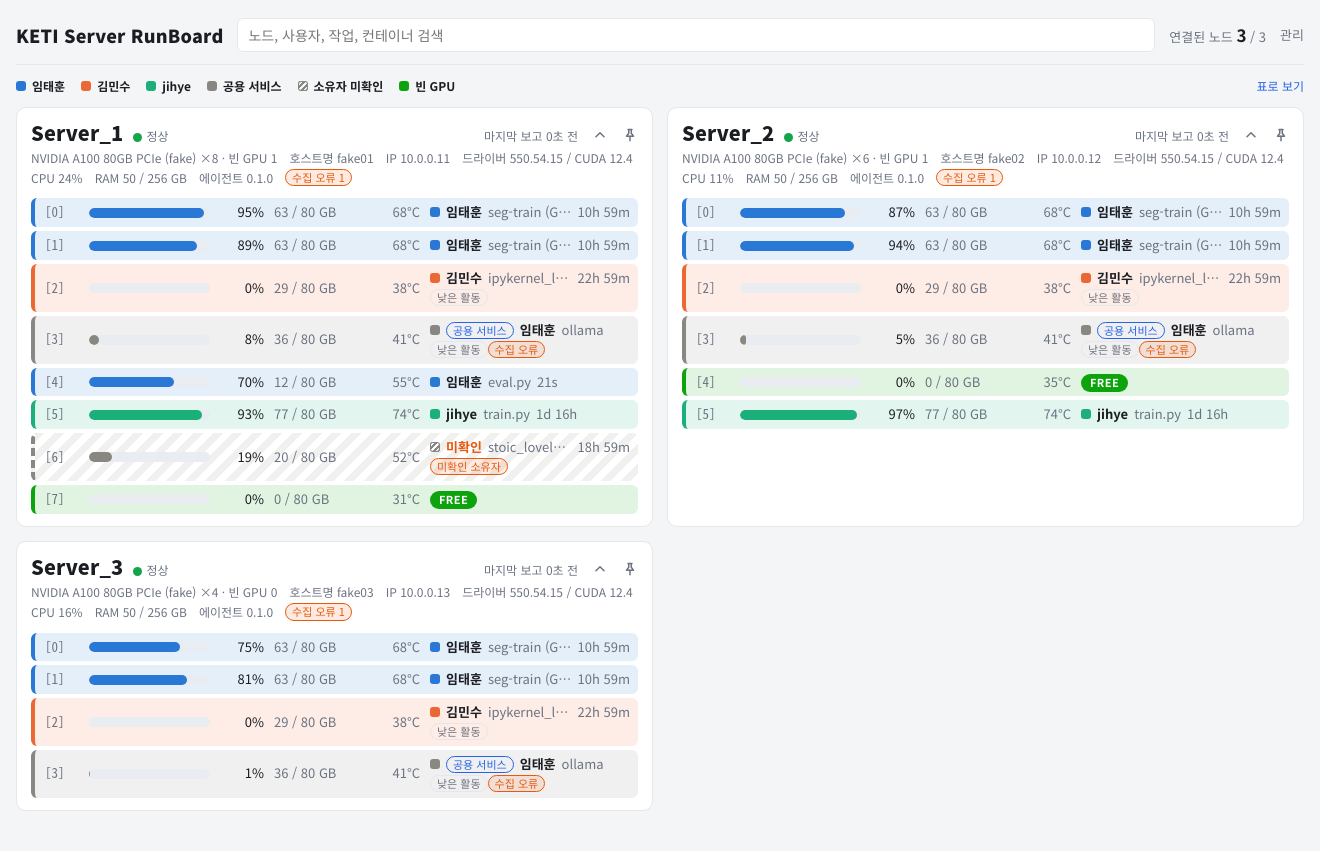
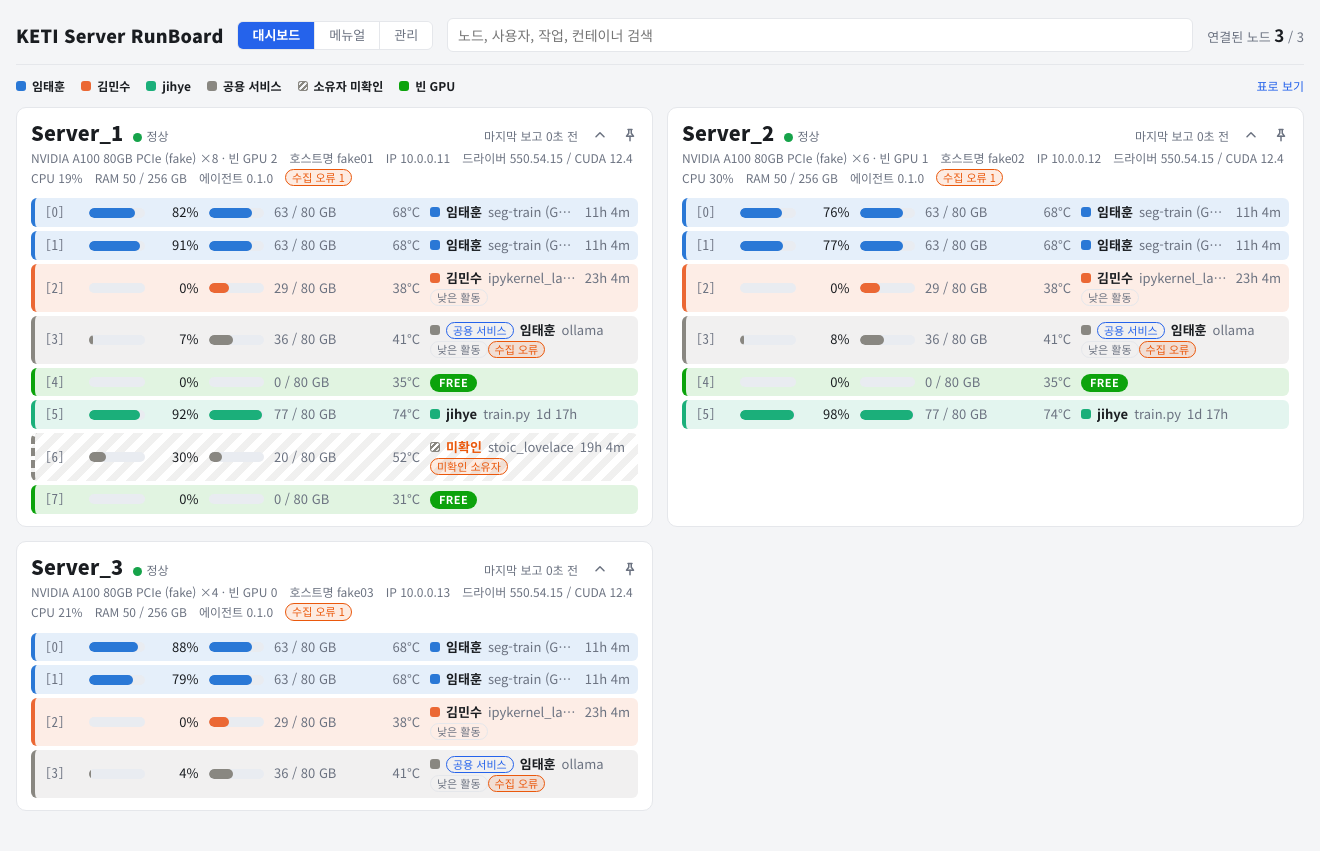
docs: 헤더 메뉴와 메뉴얼 화면을 문서·그림에 반영
docs/img 그림을 새 헤더와 메모리 막대가 보이게 다시 찍고 대시보드 안내 그림의 번호를 옮겼다.

diff --git a/docs/annotations/dashboard-guide.html b/docs/annotations/dashboard-guide.html
@@ -1,25 +1,25 @@
 <!doctype html>
 <!-- README 의 대시보드 안내 그림. 바탕은 ../img/dashboard.png (1320×851). 찍는 법은 README_DEV.md 10장 "스크린샷" -->
 <html><head><meta charset="utf-8"><link rel="stylesheet" href="annotate.css"></head><body><div class="wrap" style="height:851px"><img src="../img/dashboard.png">
-<div class="box" style="left:236px;top:16px;width:920px;height:38px"></div>
-<div class="b" style="left:236px;top:16px">1</div>
-<!-- 1 검색 -->
+<div class="box" style="left:233px;top:17px;width:204px;height:37px"></div>
+<div class="b" style="left:233px;top:54px">1</div>
+<!-- 1 메뉴 버튼 (대시보드·메뉴얼·관리). 번호는 제목 글자를 가리지 않게 상자 왼쪽 아래 -->
+<div class="box" style="left:444px;top:15px;width:752px;height:40px"></div>
+<div class="b" style="left:1186px;top:57px">2</div>
+<!-- 2 검색. 번호는 메뉴 상자와 노드 수 글자를 피해 상자 오른쪽 아래 -->
 <div class="box" style="left:10px;top:73px;width:455px;height:26px"></div>
-<div class="b" style="left:10px;top:73px">2</div>
-<!-- 2 범례 -->
+<div class="b" style="left:10px;top:73px">3</div>
+<!-- 3 범례 -->
 <div class="box" style="left:26px;top:118px;width:616px;height:74px"></div>
-<div class="b" style="left:26px;top:118px">3</div>
-<!-- 3 노드 카드 머리 -->
+<div class="b" style="left:26px;top:118px">4</div>
+<!-- 4 노드 카드 머리 -->
 <div class="box" style="left:30px;top:198px;width:610px;height:30px"></div>
-<div class="b" style="left:30px;top:198px">4</div>
-<!-- 4 GPU 행 -->
+<div class="b" style="left:30px;top:198px">5</div>
+<!-- 5 GPU 행 -->
 <div class="box" style="left:426px;top:338px;width:126px;height:22px"></div>
-<div class="b" style="left:426px;top:338px">5</div>
-<!-- 5 뱃지 -->
+<div class="b" style="left:426px;top:338px">6</div>
+<!-- 6 뱃지 -->
 <div class="box" style="left:1250px;top:74px;width:60px;height:24px"></div>
-<div class="b" style="left:1250px;top:100px">6</div>
-<!-- 6 표로 보기 -->
-<div class="box" style="left:1270px;top:22px;width:44px;height:26px"></div>
-<div class="b" style="left:1292px;top:56px">7</div>
-<!-- 7 관리 -->
+<div class="b" style="left:1250px;top:100px">7</div>
+<!-- 7 표로 보기 -->
 </div></body></html>

diff --git a/README_DEV.md b/README_DEV.md
@@ -971,13 +971,14 @@ GPU 이력:
 
 | 주소 | 화면 | 들어가는 길 |
 |---|---|---|
-| `/` | 대시보드: 범례, 노드 카드, GPU 행 | 헤더의 `KETI Server RunBoard` |
+| `/` | 대시보드: 범례, 노드 카드, GPU 행 | 헤더의 `KETI Server RunBoard` 나 `대시보드` 버튼 |
 | `/gpus` | 전체 GPU 표 | 대시보드 범례 줄의 `표로 보기`, 노드 상세 GPU 제목 줄의 `전체 GPU 표` |
 | `/nodes/<식별자>` | 노드 상세: 노드 정보, GPU 표, 작업 표, 이력 차트 | 카드·표·작업 상세의 노드 이름, 관리 서버(노드) 탭의 화면 이름 |
 | `/users` | 사용자 목록 | 화면 안에 링크가 없다. 주소를 직접 연다 |
 | `/users/<사용자 이름>` | 사용자 상세. `/users/_unknown` 은 소유자 미확인 작업 묶음 | GPU 행·작업 표의 소유자, 사용자 목록, 관리 사용자 탭 |
 | `/workloads/<작업 ID>` | 작업 상세와 세션 표 | GPU 행·작업 표의 작업 이름 |
-| `/admin` | 관리 | 헤더의 `관리` |
+| `/manual` | 메뉴얼: README.md 의 내용 | 헤더의 `메뉴얼` 버튼 |
+| `/admin` | 관리 | 헤더의 `관리` 버튼 |
 
 이 밖의 주소는 `페이지가 없습니다.` 를 보인다. 작업만 모아 보는 목록 화면은 없고, 작업 표는 노드 상세와 사용자 상세에 있다.
 
@@ -992,7 +993,9 @@ GPU 이력:
 
 ### 헤더와 공지 배너
 
-모든 화면 맨 위에 헤더 한 줄이 있다: 제목 `KETI Server RunBoard`(대시보드로 간다), 검색창, `연결된 노드 N / M`, `관리` 링크. N 은 정상·지연 노드 수, M 은 비활성화까지 포함한 노드 수다.
+모든 화면 맨 위에 헤더 한 줄이 있다: 제목 `KETI Server RunBoard`(대시보드로 간다), 메뉴 버튼 `대시보드`·`메뉴얼`·`관리`, 검색창, `연결된 노드 N / M`. N 은 정상·지연 노드 수, M 은 비활성화까지 포함한 노드 수다.
+
+메뉴 버튼은 지금 화면이 속한 것이 accent 색으로 찬다. `메뉴얼` 은 `/manual`, `관리` 는 `/admin` 이고, 그 밖의 모든 화면(대시보드, 전체 GPU 표, 노드·사용자·작업 상세, 없는 주소)에서는 `대시보드` 가 켜져 있다. 버튼은 검색어·정렬 같은 쿼리 매개변수를 넘기지 않는다.
 
 검색:
 
@@ -1152,6 +1155,16 @@ GPU 마다 작은 차트가 하나씩 있고 범례는 묶음 위에 한 번 있
 
 점유 시간은 연산 시간이 아니다. 작업 상세는 지금 열린 작업만 보여 준다. 세션이 모두 끝나 작업이 닫히면 그 주소는 `서버에서 데이터를 가져오지 못했습니다: 404 Not Found` 를 보인다. 닫힌 뒤에 그 주소를 새로 열면 `불러오는 중…` 과 이 오류 상자가 번갈아 보인다 (11장 '판정과 표시').
 
+### 메뉴얼
+
+`/manual` 은 레포 루트의 `README.md` 를 그대로 보여 준다. 빌드 때 Vite 가 README 본문을 문자열로 넣고(`?raw`), 화면은 markdown 변환기 `marked` 로 HTML 을 만들어 그대로 넣는다 (`web/src/pages/Manual.tsx`). 그래서 README 를 고치면 웹을 다시 빌드해야 화면에 반영된다. 서버 이미지의 웹 빌드 단계는 `README.md` 와 `docs/img/` 를 함께 복사한다 (`server/Dockerfile`).
+
+- README 의 그림 `docs/img/<파일>` 은 Vite 가 해시 이름의 자산(`/assets/`)으로 묶고, 화면이 그 주소로 바꿔 넣는다. `docs/img/` 에 없는 그림은 경로가 그대로 남아 깨진 그림으로 보인다.
+- `README_DEV.md` 처럼 레포 안의 `.md` 로 가는 링크는 GitHub 의 그 파일(`master`)로 간다. 그 밖의 링크는 그대로다.
+- README 는 레포에 든 글이라 변환한 HTML 을 걸러 내지 않고 넣는다. README 에 적은 HTML 태그도 그대로 들어간다.
+- 메뉴얼 묶음(README 본문과 `marked`)은 따로 나뉘어(`Manual-*.js`) 메뉴얼을 처음 열 때 받는다. 대시보드 첫 로드에는 들어가지 않는다.
+- 글 폭은 1000 px 까지이고 그림은 그 폭에 맞춰 줄어든다. 다른 화면처럼 다크 모드를 따른다.
+
 ### 관리
 
 탭은 `사용자`, `공용 서비스`, `서버(노드)`, `공지` 이고 주소의 `?tab=` 에 둔다. 로그인이 없어 주소를 아는 누구나 고칠 수 있다. 필드 규칙은 3장 '등록 정보' 와 '공지' 에 있다.
@@ -1194,7 +1207,7 @@ GPU 마다 작은 차트가 하나씩 있고 범례는 묶음 위에 한 번 있
 | GPU 행 작업 칸 260 px 이하 | 공용 서비스 줄의 경과를 뺀다 |
 | 이력 차트 가로축 280 px 이하 (차트 상자가 약 336 px 이하. 넓은 창에서 차트가 한 줄에 넷씩 놓이면 늘 그렇다) | 7일 차트의 날짜 글자를 하루 걸러 적는다 |
 
-헤더는 폭이 모자라면 여러 줄로 접힌다. 전체 GPU 표와 관리 화면의 표는 화면보다 넓으면 표만 옆으로 스크롤한다.
+헤더는 폭이 모자라면 여러 줄로 접힌다. 창 700 px 안팎에서는 메뉴 버튼이 제목 옆에 남고 검색창과 노드 수가 다음 줄로 내려간다. 전체 GPU 표와 관리 화면의 표는 화면보다 넓으면 표만 옆으로 스크롤한다.
 
 ### 아이콘과 홈 화면
 
@@ -1590,9 +1603,9 @@ journalctl -u runboard-agent -n 50 --no-pager
 | `common/` | `runboard-common`: 보고 스키마 (`runboard_common/schemas.py`) |
 | `agent/` | `runboard-agent`: CLI(`main.py`), 설정(`config.py`), 보고 주기(`cadence.py`), 수집기(`collector/nvml.py`, `collector/fake.py`), `/proc`·Docker 보강(`enrich.py`), 비밀값 가리기(`masking.py`), 전송(`reporter.py`), Docker 소켓 중계(`dockerproxy.py`). `systemd/` 유닛과 `Dockerfile` |
 | `server/` | `runboard-server`: 진입점(`main.py`), `nodes` 명령(`cli.py`), 설정(`config.py`), API(`api/ingest.py`·`query.py`·`admin.py`·`auth.py`), 판정과 추적(`core/engine.py`·`owner.py`·`sessions.py`·`workloads.py`·`detector.py`·`history.py`·`state.py`), DB(`db/models.py`·`repo.py`), 등록 정보(`registry.py`), 공지(`notices.py`), 응답 모델(`views.py`). 웹을 포함하는 `Dockerfile` |
-| `web/` | React 18 + Vite + TypeScript + TanStack Query. 화면(`src/pages`), 부품(`src/components`), 아이콘·manifest(`public`) |
+| `web/` | React 18 + Vite + TypeScript + TanStack Query. 화면(`src/pages`), 부품(`src/components`), 아이콘·manifest(`public`). 메뉴얼 화면은 `marked` 로 README.md 를 그린다 |
 | `deploy/` | `docker-compose.yml`, `runboard.example.yaml`, `install-agent.sh`, `start-agent.sh` |
-| `README.md`, `README_DEV.md` | 개요·사용 방법·주의사항, 그리고 이 문서 |
+| `README.md`, `README_DEV.md` | 개요·사용 방법·주의사항(웹의 메뉴얼 화면이 그대로 보여 준다), 그리고 이 문서 |
 | `docs/` | 그림(`img/`)과 README 안내 그림의 번호 표시 원본(`annotations/`) |
 | `pyproject.toml` | 루트는 패키지가 아니다. ruff·pytest 설정만 둔다 |
 | `requirements-dev.txt` | 세 패키지를 개발용으로 설치한다 |
@@ -1673,6 +1686,8 @@ npm run typecheck   # tsc -b
 
 `npm run dev` 는 로컬 서버가 8000 포트에 떠 있어야 데이터가 나온다. 빌드 결과는 서버가 `server.web_dist`(또는 `RUNBOARD_WEB_DIST`)에서 내보낸다 (6장 '웹 파일과 그 밖의 경로').
 
+메뉴얼 화면은 레포 루트의 `README.md` 와 `docs/img/*` 를 빌드 입력으로 읽는다 (7장 '메뉴얼'). `web/` 만 따로 떼어 빌드하면 그 둘이 없어 실패하므로 레포 전체를 둔 채 빌드한다. dev 서버는 `server.fs.allow` 로 레포 루트까지 열어 둔다 (`vite.config.ts`).
+
 ### 아이콘 파일
 
 `web/public/` 의 파일은 Vite 가 빌드 때 `dist` 루트로 그대로 복사한다.
@@ -1689,7 +1704,7 @@ npm run typecheck   # tsc -b
 
 ### 스크린샷
 
-`docs/img/` 의 그림은 가짜 에이전트 세 대(`fake01` 8장, `fake02` 6장, `fake03` 4장)와 예시 등록 정보로 띄운 화면이다. 작업 경과가 몇 시간·며칠로 보이도록 가짜 수집기의 기준 시각(`runboard_agent.collector.fake._EPOCH`)을 찍는 날 근처로 바꾼 에이전트를 썼고, 노드 상세의 이력 차트는 `fake01` 의 이틀 치 원본 샘플을 DB 에 직접 넣어 채웠다. 이 보조 스크립트는 레포에 없다. 그래서 아래 명령으로 다시 찍으면 경과가 1년 넘게 나오고(2장 '가짜 수집기'), 이력 차트는 서버를 띄운 뒤 쌓인 만큼만 그려진다. 같은 크기의 대시보드 그림은 Chrome headless 로 이렇게 찍는다.
+`docs/img/` 의 그림은 가짜 에이전트 세 대(`fake01` 8장, `fake02` 6장, `fake03` 4장)와 예시 등록 정보로 띄운 화면이다. 작업 경과가 몇 시간·며칠로 보이도록 가짜 수집기의 기준 시각(`runboard_agent.collector.fake._EPOCH`)을 찍는 시각의 14시간 전으로 바꾼 에이전트를 썼고, 노드 상세의 이력 차트는 `fake01` 의 이틀 치 5분 집계 행(`gpu_samples_5m`)을 시나리오에 맞춘 파형으로 DB 에 직접 넣어 채웠다. 이 보조 스크립트는 레포에 없다. 그래서 아래 명령으로 다시 찍으면 경과가 1년 넘게 나오고(2장 '가짜 수집기'), 이력 차트는 서버를 띄운 뒤 쌓인 만큼만 그려진다. 같은 크기의 대시보드 그림은 Chrome headless 로 이렇게 찍는다.
 
 ```bash
 google-chrome --headless=new --hide-scrollbars --force-device-scale-factor=1 --blink-settings=preferredColorScheme=1 --window-size=1320,928 --virtual-time-budget=5000 --screenshot=docs/img/dashboard.png http://localhost:8000/
@@ -1698,8 +1713,8 @@ google-chrome --headless=new --hide-scrollbars --force-device-scale-factor=1 --b
 - `--virtual-time-budget` 이 없으면 데이터를 받기 전의 `불러오는 중…` 이 찍힌다.
 - Chrome 120 의 새 headless 모드는 그림 높이가 `--window-size` 의 높이보다 77 px 작다 (1320,928 → 1320×851). 폭은 그대로다.
 - `--blink-settings=preferredColorScheme=1` 은 라이트 테마로 찍는다.
-- 노드 상세 그림(`node-detail.png`)은 차트가 다 그려진 뒤 페이지 전체를 찍은 것이다 (`/nodes/fake01?range=24h`). 이력 차트를 채우려면 원본 샘플이 쌓여 있어야 한다.
-- `gpus.png` 는 `/gpus` 를 창 높이 900 으로, `admin.png` 는 `/admin`(사용자 탭)을 창 높이 928 로 찍은 것이다. 이 둘은 가짜 수집기의 기준 시각(`_EPOCH`)을 지금의 4시간 전으로 바꾼 에이전트로 찍어 경과가 몇 시간·며칠로 보인다.
+- 노드 상세 그림(`node-detail.png`)은 `/nodes/fake01?range=24h` 를 창 높이 1443(그림 1366)으로 찍어 페이지 전체가 들어간 것이다. 이력 차트를 채우려면 5분 집계 행이 쌓여 있어야 한다.
+- `gpus.png` 는 `/gpus` 를 창 높이 900 으로, `admin.png` 는 `/admin`(사용자 탭)을 창 높이 928 로 찍은 것이다.
 - README 의 `dashboard-guide.png` 와 `admin-guide.png` 는 `dashboard.png`·`admin.png` 위에 번호 상자를 얹은 것이다. `docs/annotations/` 의 HTML 이 바탕 그림을 `<img>` 로 넣고 그 위에 상자와 번호를 절대 좌표로 놓는다. 바탕 그림을 다시 찍었으면 좌표를 맞춘 뒤 레포 루트에서 같은 크기로 찍는다.
 
 ```bash

diff --git a/README.md b/README.md
@@ -5,6 +5,7 @@
 | 주소 | 내용 |
 |---|---|
 | `http://keties.iptime.org:55400` | 대시보드 |
+| `http://keties.iptime.org:55400/manual` | 메뉴얼 (이 문서) |
 | `http://keties.iptime.org:55400/admin` | 관리 화면 (사용자 등록, 공용 서비스, 서버(노드), 공지) |
 
 동작 원리, 설정, API, 서버·에이전트 설치, 개발 환경은 [README_DEV.md](README_DEV.md) 에 있다.
@@ -15,13 +16,13 @@
 
 ![대시보드 안내](docs/img/dashboard-guide.png)
 
-1. **검색**: 노드·사람·작업·컨테이너 이름을 치면 맞는 GPU 행만 남는다.
-2. **범례**: 행 색은 작업 소유자의 색이다. 초록은 빈 GPU, 빗금은 소유자 미확인이다.
-3. **노드 카드 머리**: 연결 상태(정상·지연·비활성화)와 마지막 보고 시각. 노드 이름을 누르면 노드 상세로 간다.
-4. **GPU 행**: 번호, 사용률, 메모리, 온도, 그리고 `소유자 작업 이름 경과`. 소유자를 누르면 사용자 화면, 작업 이름을 누르면 작업 상세로 간다. 빈 GPU 는 `FREE` 다.
-5. **뱃지**: 주황은 확인할 것(`지연`, `온도`, `수집 오류`, `미확인 소유자`, `미확인`), 회색은 참고(`낮은 활동`, `수집 불가`)다.
-6. **표로 보기**: 모든 GPU 를 한 표에 놓는다. 열 머리를 눌러 정렬한다.
-7. **관리**: 사용자 등록 같은 관리 화면이다.
+1. **메뉴**: `대시보드`, `메뉴얼`(이 문서), `관리`(사용자 등록 같은 관리 화면). 지금 보는 화면의 버튼이 파랗게 찬다.
+2. **검색**: 노드·사람·작업·컨테이너 이름을 치면 맞는 GPU 행만 남는다.
+3. **범례**: 행 색은 작업 소유자의 색이다. 초록은 빈 GPU, 빗금은 소유자 미확인이다.
+4. **노드 카드 머리**: 연결 상태(정상·지연·비활성화)와 마지막 보고 시각. 노드 이름을 누르면 노드 상세로 간다.
+5. **GPU 행**: 번호, 사용률 막대, 메모리 막대, 온도, 그리고 `소유자 작업 이름 경과`. 소유자를 누르면 사용자 화면, 작업 이름을 누르면 작업 상세로 간다. 빈 GPU 는 `FREE` 다.
+6. **뱃지**: 주황은 확인할 것(`지연`, `온도`, `수집 오류`, `미확인 소유자`, `미확인`), 회색은 참고(`낮은 활동`, `수집 불가`)다.
+7. **표로 보기**: 모든 GPU 를 한 표에 놓는다. 열 머리를 눌러 정렬한다.
 
 화면은 1초마다 새로 읽는다. 카드는 압정으로 맨 앞에 고정하고 꺾쇠로 접는다 (내 브라우저에만 저장된다).
 
@@ -34,6 +35,8 @@
 노드 상세에는 GPU 표, 작업 표, GPU 별 이력 차트(24시간·7일)가 있다.
 
 ### 내 작업을 내 이름으로 보이게 하기
+
+헤더의 `관리` 를 누른다.
 
 ![관리 화면](docs/img/admin-guide.png)
 
